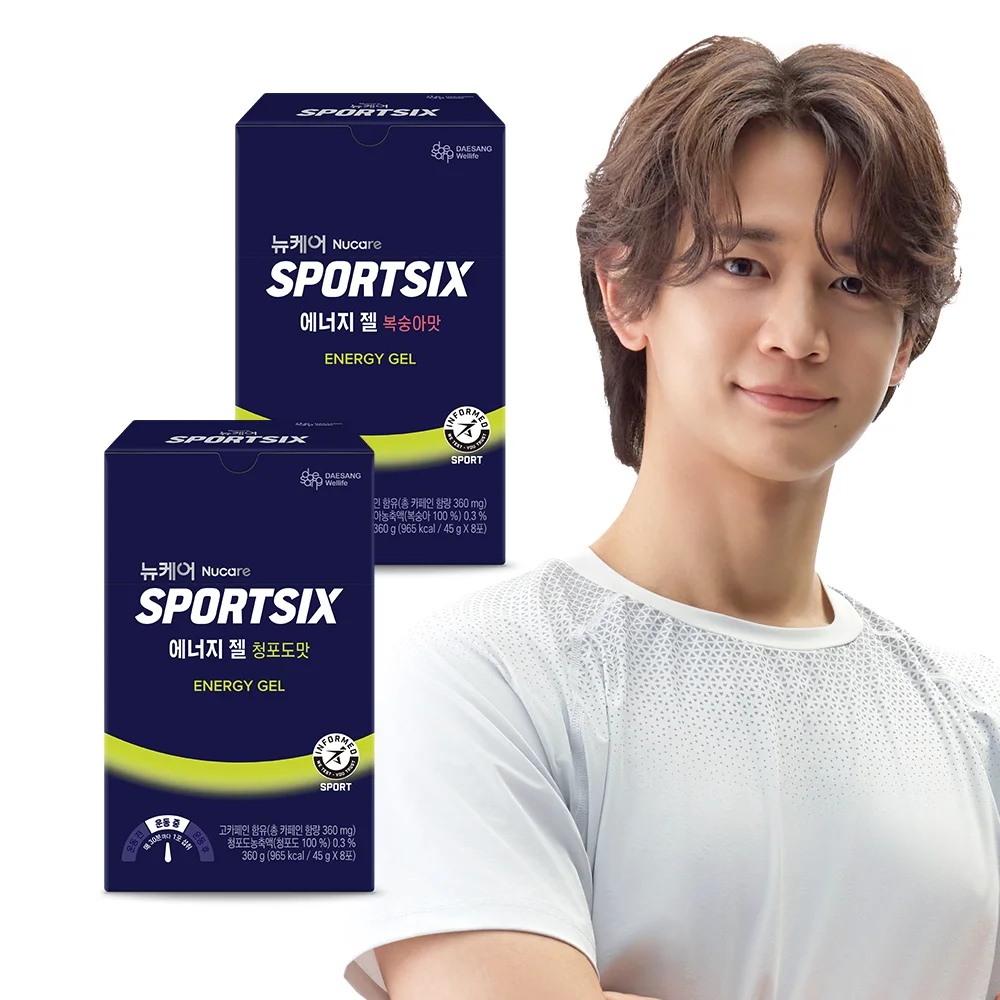
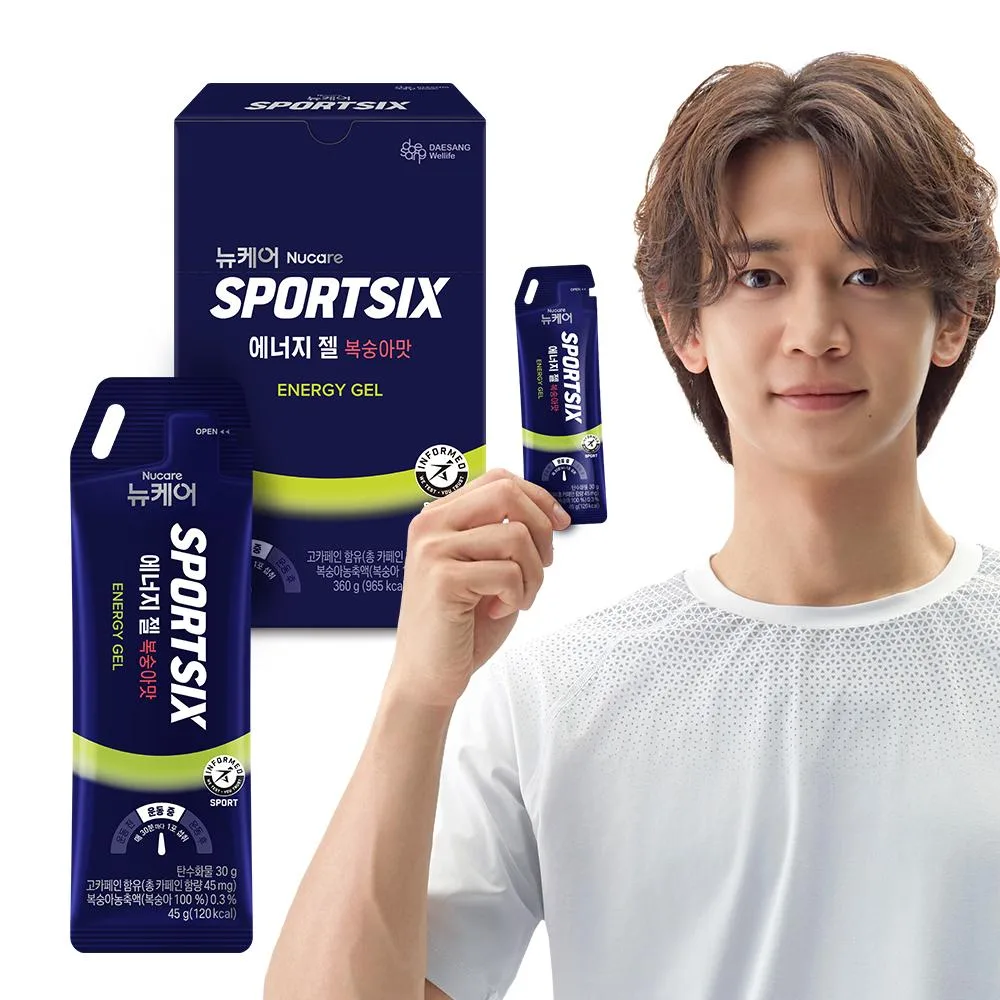
fix(gels): scope Sportsix peach nutrition and official image

diff --git a/src/lib/data/gels/classic.ts b/src/lib/data/gels/classic.ts
@@ -482,15 +482,18 @@ export const classicGels: Gel[] = [
     id: "sportsix-energy-gel",
     slug: "sportsix-energy-gel",
     brand: "스포식스",
-    name: "에너지젤",
+    name: "에너지젤 (복숭아맛)",
     category: "젤 제품",
-    description: "뉴케어 스포식스 기본 에너지젤은 45g 제품군입니다. 공식 복숭아맛 상세는 1포당 카페인 45mg으로 안내합니다. 실제 구매 포장의 표시를 확인하세요.",
+    description: "공식 복숭아맛 45g 한 포 표시: 120kcal·탄수화물 30g·나트륨 20mg. 상품 상세는 카페인 45mg으로 안내합니다. 다른 맛·프로 제품과 구분하세요.",
     tags: [
       "제품 표시 확인"
     ],
     image: "/images/gels/sportsix-energy-gel/official-20261111.webp",
     nutritionFacts: {
+      "calories": 120,
+      "totalCarbs": 30,
       "caffeine": 45,
+      "sodium": 20,
       "servingSize": 45,
       "servingUnit": "g"
     },
@@ -526,8 +529,8 @@ export const classicGels: Gel[] = [
       "intakeStrategy": "거리별 고정 개수보다 실제 제품의 탄수화물 g·예상 시간·급수 기회를 함께 계획하세요. 대회에서 사용할 조합은 훈련 중 반응을 확인하세요."
     },
     features: [
-      "공식몰 패키지 안내에서 기본형45g과 별도 프로 제품을 구분했습니다. 기존35g·95kcal·탄수화물24g 표기는 근거를 확인하지 못해 제거했습니다.",
-      "공식 복숭아맛 단품 상세 이미지에는 1포당 카페인45mg과 복숭아·청포도 두 맛이 표시됩니다. 이는 제조사 상품 상세의 수치이며 실제 구매 포장의 표시·소비자원 2025년 시료와 구분합니다."
+      "공식 복숭아맛 45g 한 포 영양표: 120kcal·탄수화물30g·나트륨20mg. 기본형과 별도 프로 제품을 구분합니다.",
+      "공식 상품 상세는 한 포 카페인45mg을 안내합니다. 2025년 소비자원 시료의 카페인50mg·탄수화물27g과 달라 시점·포장·시험 대상을 구분합니다."
     ],
     reviews: [],
     similarGels: [
@@ -537,30 +540,35 @@ export const classicGels: Gel[] = [
     ],
     purchaseLinks: [
       {
+        "store": "대상웰라이프 공식몰",
+        "url": "https://www.wellife.co.kr/products/view/G2001002353",
+        "isOfficial": true,
+        "note": "복숭아맛 45g×8포 정확 상품입니다. 현재 가격·옵션·재고는 결제 전 확인하세요."
+      },
+      {
         "store": "네이버",
         "url": "https://naver.me/xnrJdjJo",
-        "note": "공식 브랜드 상품명 기준 기본형 복숭아·청포도 총16포 세트입니다. 프로 제품과 구분하세요."
+        "note": "복숭아맛 단품이 아닌 기본형 복숭아·청포도 총16포 세트입니다. 맛별 영양표와 현재 구성을 확인하세요."
       },
       {
         "store": "쿠팡",
         "url": "https://link.coupang.com/a/hb2IBC4jF6",
-        "note": "2026-11-11 판매처 제목 기준 기본 에너지젤 청포도45g×8포·360g 구성입니다. 프로 제품과 구분하세요. 현재 판매 상태·쿠폰 조건·최종 가격은 판매처에서 확인하세요."
+        "note": "복숭아맛이 아닌 청포도맛입니다. 2026-11-11 판매처 제목 기준 45g×8포·360g이며 영양표를 복숭아맛 수치로 대입하지 마세요. 현재 판매 상태·쿠폰 조건·최종 가격은 판매처에서 확인하세요."
       }
     ],
     verification: {
-      "checkedAt": "2026-11-10",
-      "scope": "성분 표시의 기존 부분 재확인과 사진 변형 대조. 사진 출처가 미확인인 항목·현재 국내 포장·선택 옵션·판매 상태와 제품 전체 효과의 검증 완료 표지가 아닙니다.",
+      "checkedAt": "2026-11-11",
+      "scope": "공식 복숭아맛 단품의 상세 영양표·카페인 안내·상품 사진을 대조했습니다. 실제 구매 포장, 다른 맛·프로 제품, 선택 옵션·재고, 제품 효과의 검증 완료 표지가 아닙니다.",
       "notes": [
-        "공식몰 패키지 안내에서 기본형45g과 별도 프로 제품을 구분했습니다. 기존35g·95kcal·탄수화물24g 표기는 근거를 확인하지 못해 제거했습니다.",
-        "공식 복숭아맛 단품 상세 이미지에는 1포당 카페인45mg과 복숭아·청포도 두 맛이 표시됩니다. 이는 제조사 상품 상세의 수치이며 실제 구매 포장의 표시·소비자원 2025년 시료와 구분합니다.",
-        "2025년 소비자원 시료는 탄수화물27g·카페인50mg, 판매 상세는30g·45mg으로 달라 현재 포장 대조가 필요합니다. 시험 시료와 현재 모든 제품을 동일하게 취급하지 않습니다.",
-        "2026-11-11 사진 대조: 공식 네이버 상품의 기본형 복숭아·청포도 16포 세트 예시. 에너지젤 프로 제품과 구분하세요."
+        "공식 복숭아맛 단품의 상세 영양표는 45g 한 포 120kcal·탄수화물30g·나트륨20mg을 표시합니다. 상세 설명과 포장 앞면은 카페인45mg을 안내합니다.",
+        "2025년 소비자원 시험 시료는 탄수화물27g·카페인50mg으로 달라 현재 복숭아맛 표시와 시험 시료를 동일하게 취급하지 않습니다.",
+        "2026-11-11 사진 대조: 대상웰라이프 복숭아맛 45g×8포 상품 갤러리. 에너지젤 프로·청포도맛과 구분하세요."
       ],
       "sources": [
         {
           "title": "대상웰라이프 공식 제품 안내",
           "url": "https://www.wellife.co.kr/products/view/G2001002353",
-          "scope": "기본형 복숭아맛45g×8포·상품 상세의 1포당 카페인45mg; 포장 실물·2025년 시험 시료와 구분"
+          "scope": "복숭아맛45g×8포·상세 영양표 120kcal/탄수화물30g/나트륨20mg·상세 설명 카페인45mg; 2025년 시험 시료와 구분"
         },
         {
           "title": "대상웰라이프 공식 보도자료",
@@ -573,16 +581,16 @@ export const classicGels: Gel[] = [
           "scope": "2025년 시료의 탄수화물27g·카페인50mg; 현재 라벨 인증 아님"
         },
         {
-          "title": "공식 브랜드 네이버 상품",
-          "url": "https://smartstore.naver.com/main/products/12449697480",
-          "scope": "사진 속 제품 변형 대조. 현재 모든 맛·국내 포장·재고 인증 아님"
+          "title": "대상웰라이프 복숭아맛 공식 상품 이미지",
+          "url": "https://www.wellife.co.kr/products/view/G2001002353",
+          "scope": "사진 속 복숭아맛45g×8포 대조. 현재 모든 맛·재고 인증 아님"
         }
       ]
     },
-    imageCaption: "공식 네이버 상품의 기본형 복숭아·청포도 16포 세트 예시. 에너지젤 프로 제품과 구분하세요.",
+    imageCaption: "대상웰라이프 공식 복숭아맛 45g×8포 상품 사진. 청포도맛·프로 제품과 구분하세요.",
     imageSource: {
-      "title": "공식 브랜드 네이버 상품",
-      "url": "https://smartstore.naver.com/main/products/12449697480"
+      "title": "대상웰라이프 공식 복숭아맛 상품",
+      "url": "https://www.wellife.co.kr/products/view/G2001002353"
     },
   },
 ];
